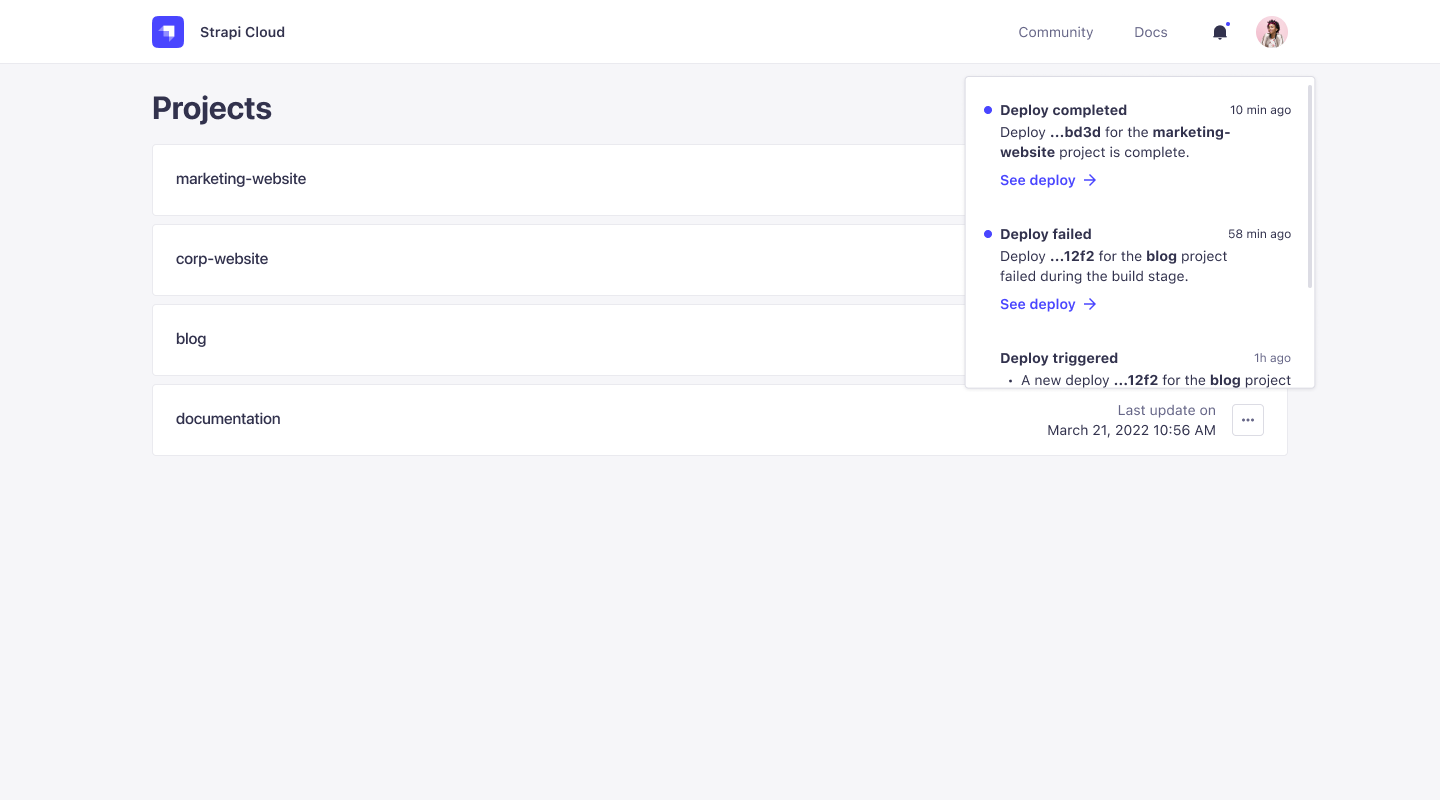
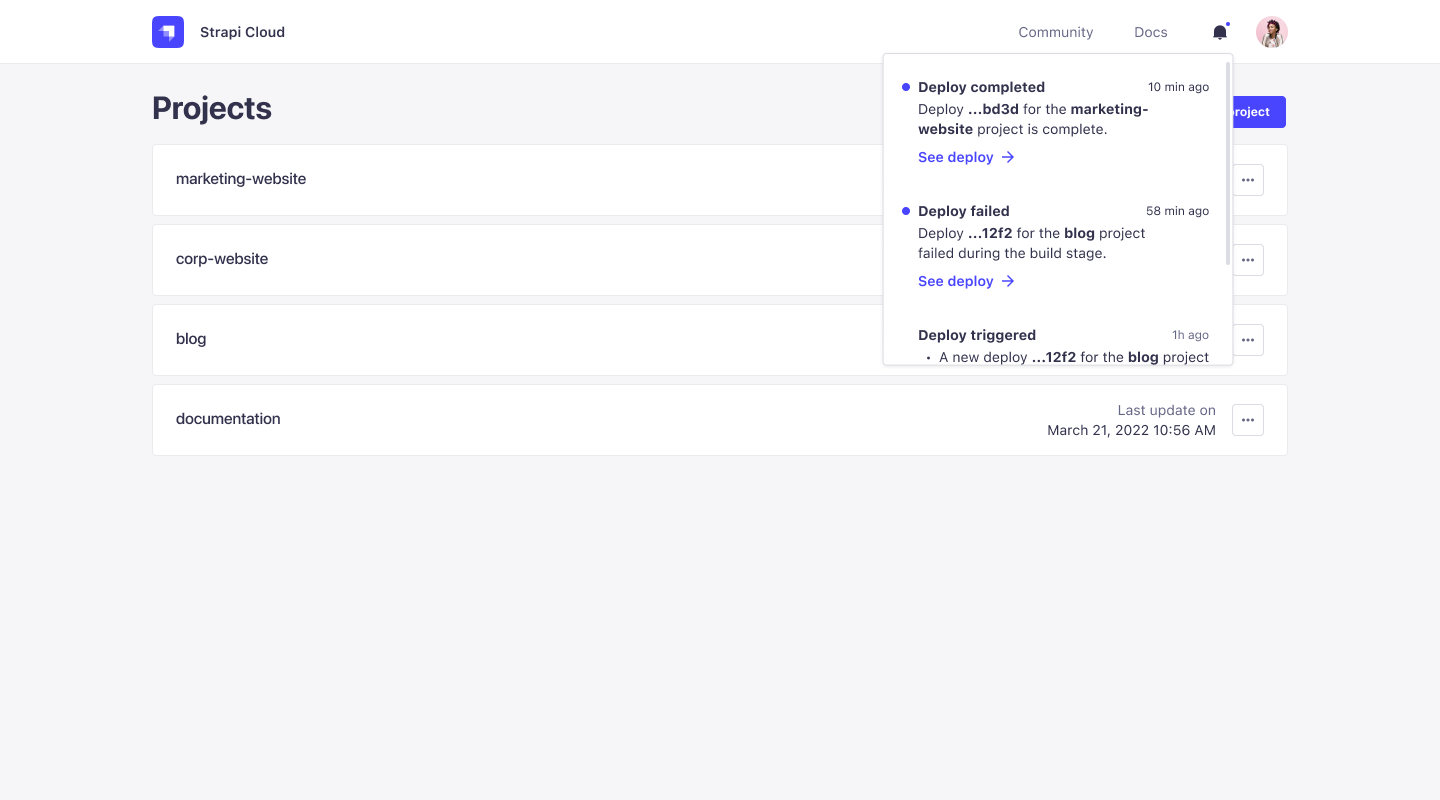
Update docusaurus/docs/cloud/projects/notifications.md

Changed region(s): [[0.625, 0.0938, 0.9062, 0.5], [0.8125, 0.25, 0.8438, 0.2812]]

diff --git a/docusaurus/docs/cloud/projects/notifications.md b/docusaurus/docs/cloud/projects/notifications.md
@@ -8,7 +8,9 @@ sidebar_position: 3
 
 # Notifications
 
-The **Notification center** is accessible from the top navigation of the Cloud dashboard.
+The **Notification center** could be opened by clicking the bell icon 🔔 in the top navigation of the Cloud dashboard.
+
+It displays a list of the latest notifications for all existing projects. Clicking on a notification card from the list will redirect you to the **Log details** of the corresponding deployment.
 
 ![Projects page - List](/img/assets/cloud/notification-center.png)
 
